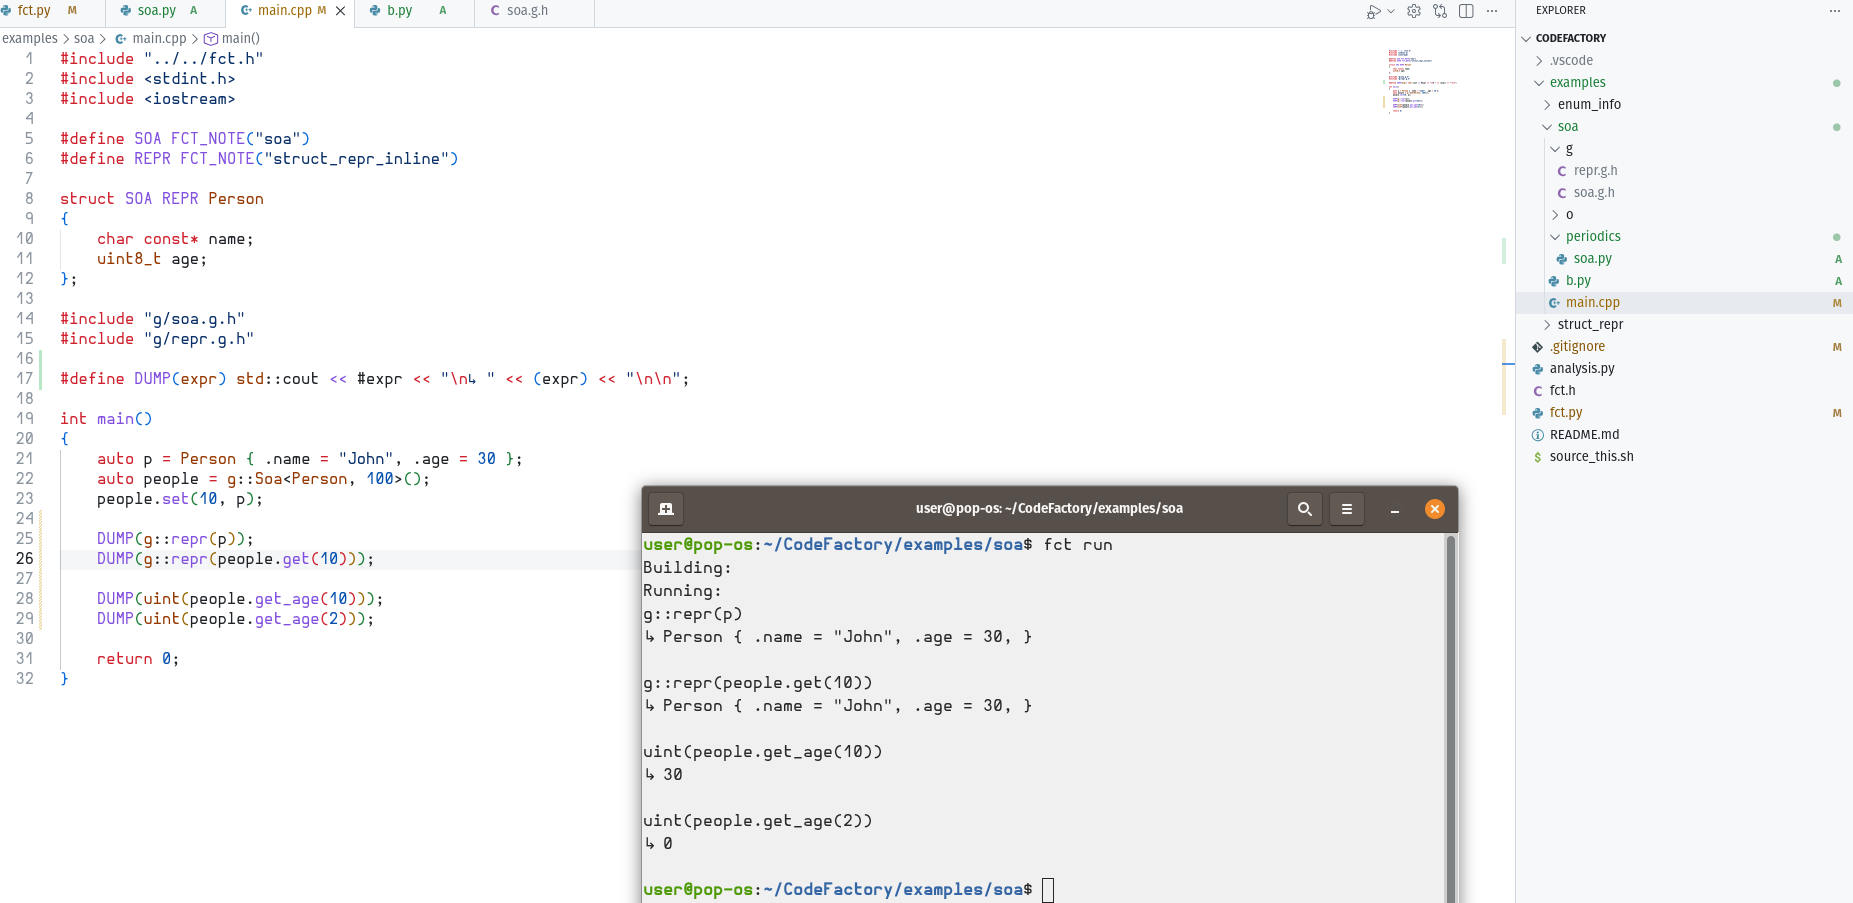
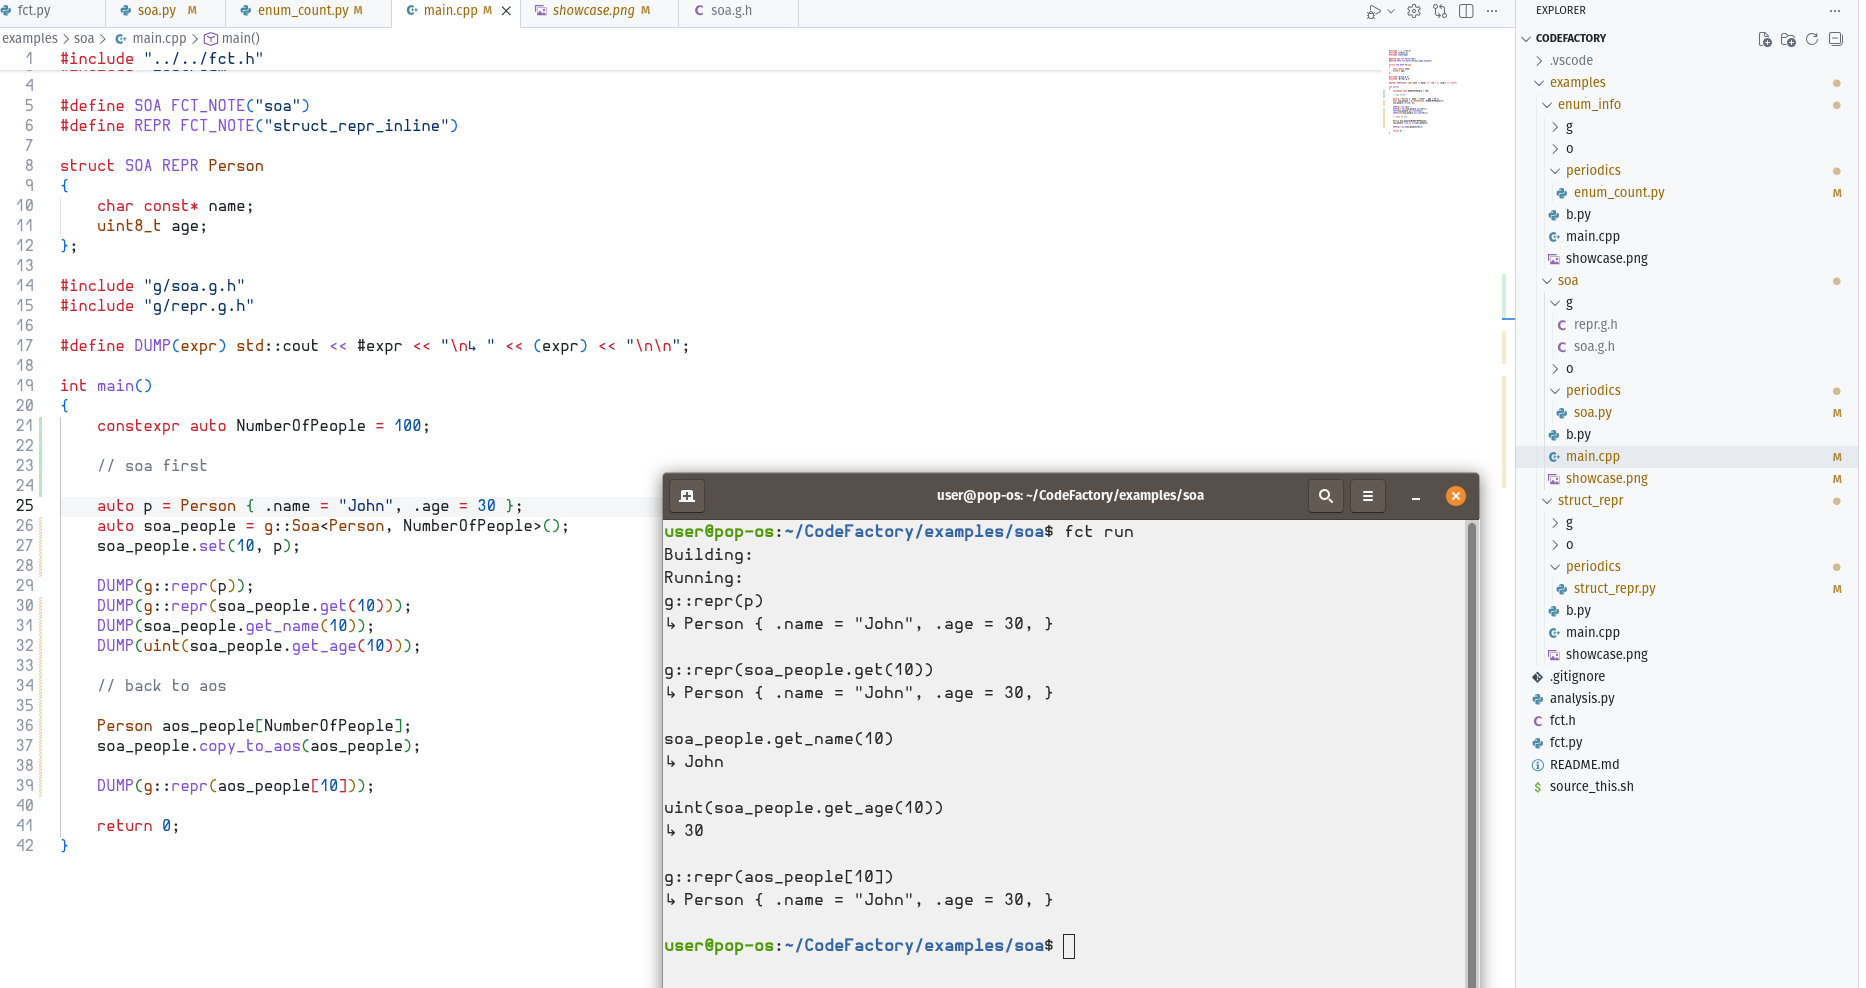
added char normalization to struct_repr + small add to soa

diff --git a/examples/struct_repr/periodics/struct_repr.py b/examples/struct_repr/periodics/struct_repr.py
@@ -44,12 +44,12 @@ def emit_field_repr_to_pb(pb: CppPieceBuilder, f: ClangNode) -> None:
                 case "uint8_t":
                     pb.add_flat(f"uint({fvalue})")
                 case _:
-                    pb.add_flat(f"'\\'' << {fvalue} << '\\''")
+                    pb.add_flat(f"'\\''; normalize_char(ss, {fvalue}); ss << '\\''")
     
         case "pointer":
             # c string
             if fa.typekind(t.get_pointee()) in ["char_s", "char_u"]:
-                pb.add_flat(f"repr(std::string({fvalue}))")
+                pb.add_flat(f"repr_s(std::string({fvalue}))")
             else:
                 # generic pointer
                 # TODO: pointers to struct should be fully printed with `&<...>`
@@ -58,7 +58,7 @@ def emit_field_repr_to_pb(pb: CppPieceBuilder, f: ClangNode) -> None:
     
         case "record":
             if alias_type == "std::string" and t.spelling == "std::basic_string<char>":
-                pb.add_flat(f'"std::string(" << repr({fvalue}) << ")"')
+                pb.add_flat(f'"std::string(" << repr_s({fvalue}) << ")"')
             else:
                 decl = t.get_declaration()
                 if decl not in tagged_structs and SKIP_FIELDS_OF_UNREGISTERED_STRUCT_TYPES:
@@ -122,25 +122,34 @@ def emit_struct_repr_to_cb(cls: ClangNode) -> None:
 def execute(tu: TranslationUnit) -> list[fct.CppBuilder]:
     global cpp
 
-    repr_builder = CppPieceBuilder("std::string repr(std::string const& s)")
-    repr_builder.add_flat(r"""
-        std::stringstream ss;
-        ss << "\"";
-        for (char c : s) {
-            switch (c) {
-                case '"':  ss << "\\\""; break;
-                case '\\': ss << "\\\\"; break;
-                case '\n': ss << "\\n"; break;
-                case '\t': ss << "\\t"; break;
-                case '\r': ss << "\\r"; break;
-                case '\0': ss << "\\0"; break;
-                default:   ss << c; break;
-            }
-        }
-        ss << "\"";
-        return ss.str();
+    repr_s = CppPieceBuilder()
+    repr_s.add_flat(
+r"""
+void normalize_char(std::stringstream& ss, char c)
+{
+    switch (c) {
+        case '"':  ss << "\\\""; break;
+        case '\\': ss << "\\\\"; break;
+        case '\n': ss << "\\n";  break;
+        case '\t': ss << "\\t";  break;
+        case '\r': ss << "\\r";  break;
+        case '\0': ss << "\\0";  break;
+        default:   ss << c;      break;
+    }
+}
+
+std::string repr_s(std::string const& s)
+{
+    std::stringstream ss;
+    ss << "\"";
+    for (char c : s)
+        normalize_char(ss, c);
+        
+    ss << "\"";
+    return ss.str();
+}
 """)
-    cpp.add("std::string", repr_builder)
+    cpp.add("std::string and char repr", repr_s)
 
     # static precomputed indent
     cpp.add(

diff --git a/examples/soa/main.cpp b/examples/soa/main.cpp
@@ -18,15 +18,25 @@ struct SOA REPR Person
 
 int main()
 {
+    constexpr auto NumberOfPeople = 100;
+
+    // soa first
+
     auto p = Person { .name = "John", .age = 30 };
-    auto people = g::Soa<Person, 100>();
-    people.set(10, p);
-
+    auto soa_people = g::Soa<Person, NumberOfPeople>();
+    soa_people.set(10, p);
+    
     DUMP(g::repr(p));
-    DUMP(g::repr(people.get(10)));
+    DUMP(g::repr(soa_people.get(10)));
+    DUMP(soa_people.get_name(10));
+    DUMP(uint(soa_people.get_age(10)));
 
-    DUMP(uint(people.get_age(10)));
-    DUMP(uint(people.get_age(2)));
+    // back to aos
+
+    Person aos_people[NumberOfPeople];
+    soa_people.copy_to_aos(aos_people);
+
+    DUMP(g::repr(aos_people[10]));
 
     return 0;
 }

diff --git a/examples/soa/periodics/soa.py b/examples/soa/periodics/soa.py
@@ -26,13 +26,19 @@ f"""
 template<size_t Capacity>
 struct Soa<{fqn}, Capacity>
 {{
+    // transforming to aos
+    void copy_to_aos({fqn}* out_buffer)
+    {{
+        for (size_t i = 0; i < Capacity; i++)
+            out_buffer[i] = get(i);
+    }}
 """
     )
 
     full_getter = CppPieceBuilder(f"inline {fqn} get(size_t idx)")
-    full_setter = CppPieceBuilder(f"inline void set(size_t idx, {fqn} value)")
-
     full_getter.line(f"{fqn} r;")
+
+    full_setter = CppPieceBuilder(f"inline void set(size_t idx, {fqn} value)")
 
     for c in cls.get_children():
         if fa.kindof(c) != "field_decl":

diff --git a/examples/enum_info/periodics/enum_count.py b/examples/enum_info/periodics/enum_count.py
@@ -66,16 +66,15 @@ def emit_enum_info_to_cb(cls: ClangNode) -> None:
 def execute(tu: TranslationUnit) -> list[fct.CppBuilder]:
     global cpp
 
-    unbound_enum_info = CppPieceBuilder()
-    unbound_enum_info.add_flat(
-r"""
+    cpp.add("unbound_enum_info", fct.piece(
+"""
 template<typename EnumT>
 struct EnumInfo
 {
     
 };
-""")
-    cpp.add("unbound_enum_info", unbound_enum_info)
+"""
+    ))
 
     tagged_enums = fa.collect_tagged_decls(tu.cursor, ["enum_info"], ["enum_decl"])
     for en in tagged_enums:
